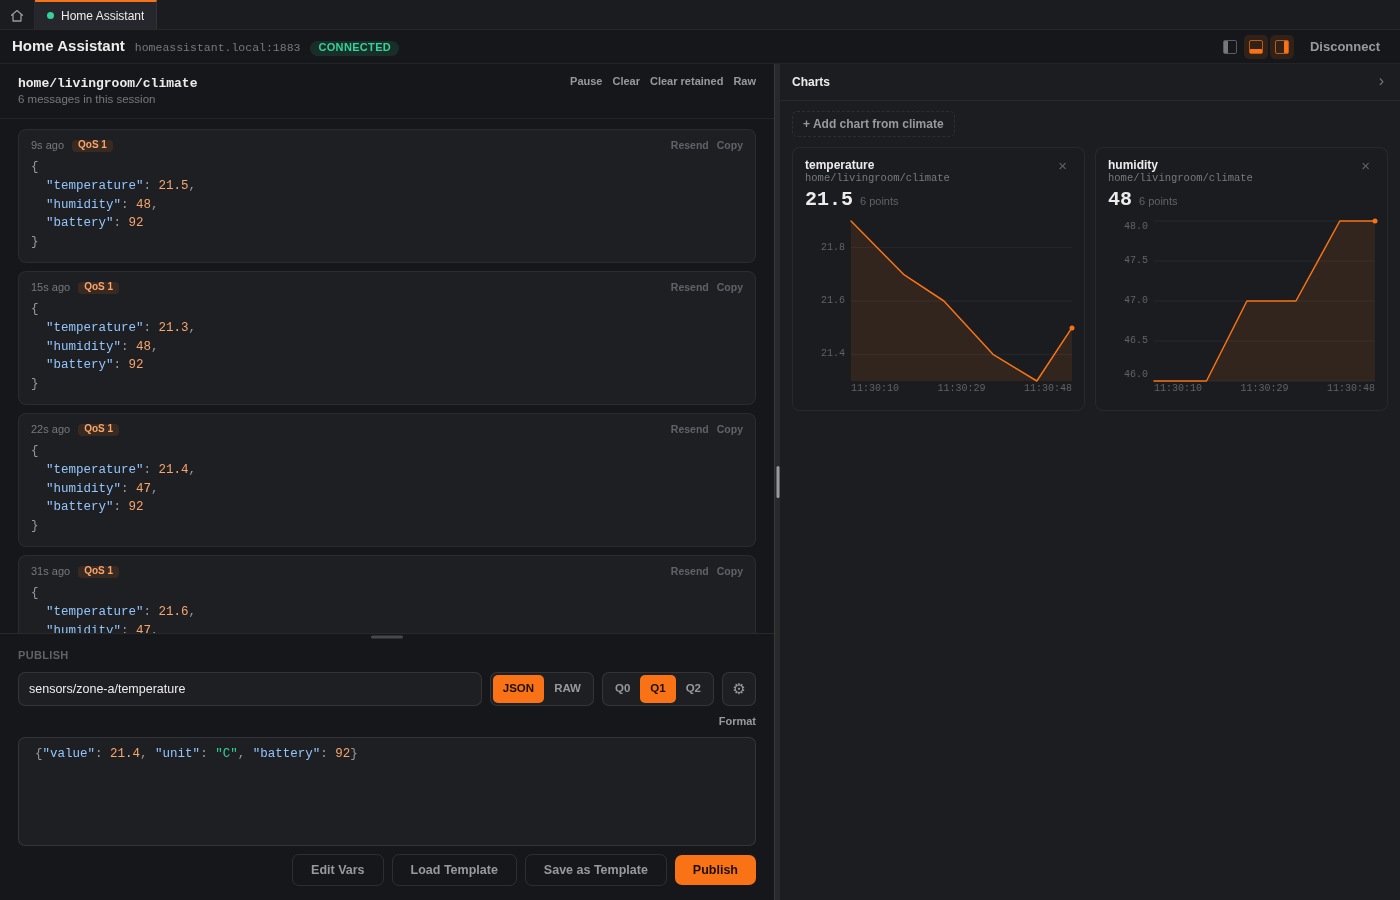
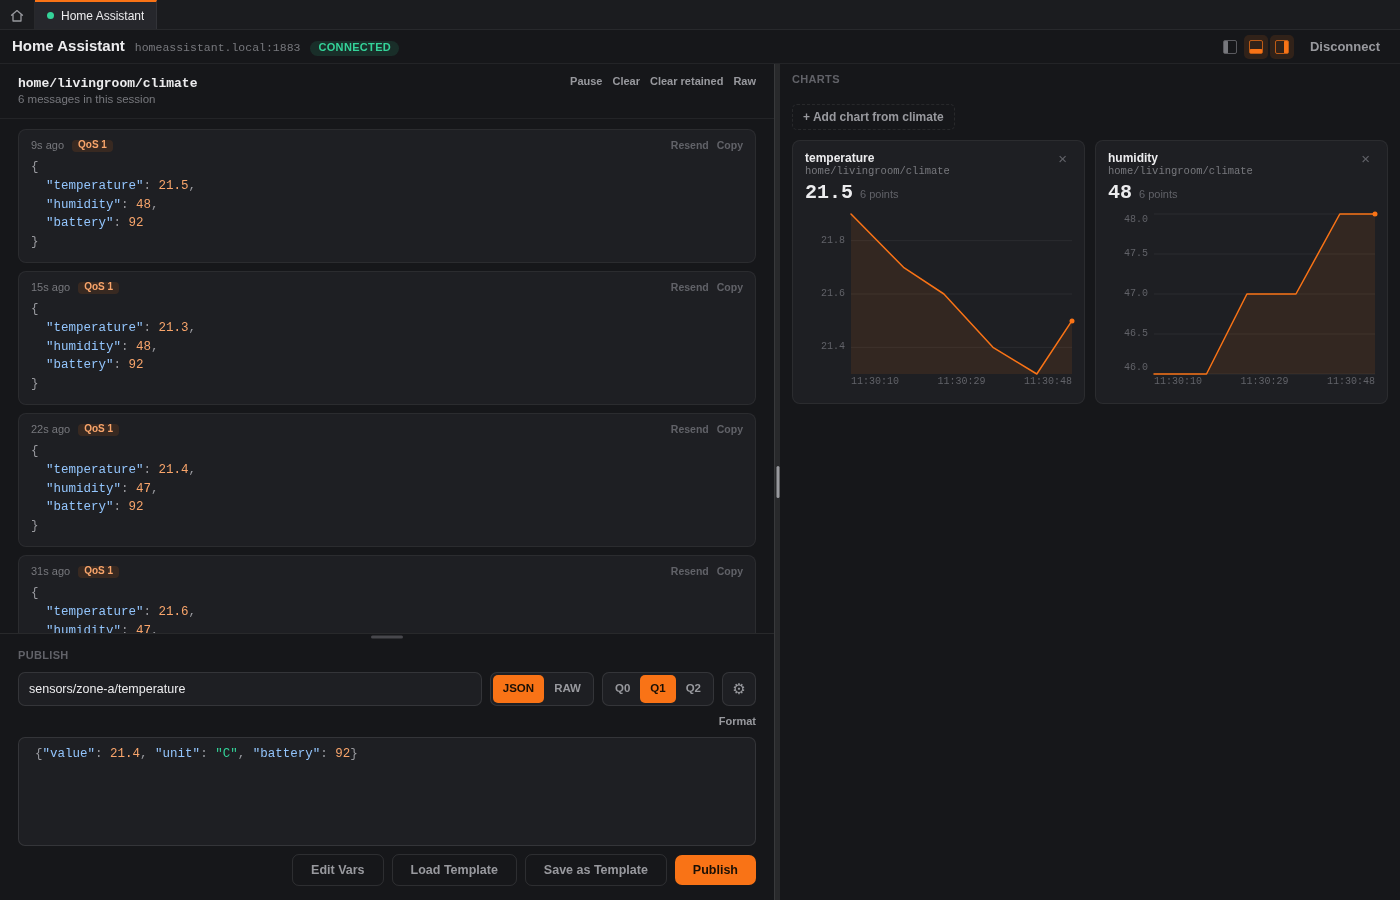
cleanup

diff --git a/src/app/pages/broker-workspace/tool-panel/tool-panel.css b/src/app/pages/broker-workspace/tool-panel/tool-panel.css
@@ -1,9 +1,13 @@
+/* The same background as the sidebar, the message stream and the publish
+   panel. This dock used to be the one raised surface in the workspace, which
+   left the chart cards sitting on a background a single RGB step away from
+   their own - so they read as a flat wall rather than as cards. */
 :host {
   display: flex;
   flex-direction: column;
   min-height: 0;
   height: 100%;
-  background: var(--color-surface-elevated);
+  background: var(--color-bg);
 }
 
 .panel-header {
@@ -11,15 +15,17 @@
   align-items: center;
   justify-content: space-between;
   gap: 8px;
-  padding: 8px 10px 8px 12px;
-  border-bottom: 1px solid var(--color-border-faint);
+  padding: 10px 12px 8px;
   flex-shrink: 0;
 }
 
+/* The app's section label, as used by SUBSCRIPTIONS, TOPICS and PUBLISH. */
 .panel-title {
-  font-size: 12px;
-  font-weight: 600;
-  color: var(--color-text);
+  font-size: 11px;
+  font-weight: 700;
+  color: var(--color-text-quaternary);
+  letter-spacing: 0.03em;
+  text-transform: uppercase;
 }
 
 /* Matches the publish panel's format switcher - this is the app's tab strip,
@@ -54,39 +60,6 @@
 
 .segment:not(.selected):hover {
   background: var(--color-surface-hover);
-}
-
-.panel-actions {
-  display: flex;
-  align-items: center;
-  gap: 2px;
-  flex-shrink: 0;
-}
-
-.panel-button {
-  background: none;
-  border: none;
-  color: var(--color-text-tertiary);
-  font-size: 13px;
-  line-height: 1;
-  cursor: pointer;
-  padding: 4px 6px;
-  border-radius: var(--radius-sm);
-  flex-shrink: 0;
-}
-
-.panel-button:hover {
-  color: var(--color-text);
-  background: var(--color-surface-hover);
-}
-
-.panel-button.active {
-  color: var(--color-accent);
-}
-
-.panel-close {
-  font-size: 16px;
-  padding: 2px 6px;
 }
 
 .panel-body {

diff --git a/src/app/pages/broker-workspace/subscriptions-panel/subscriptions-panel.ts b/src/app/pages/broker-workspace/subscriptions-panel/subscriptions-panel.ts
@@ -1,4 +1,13 @@
-import { Component, OnInit, inject, input, signal } from "@angular/core";
+import {
+  Component,
+  ElementRef,
+  OnInit,
+  effect,
+  inject,
+  input,
+  signal,
+  viewChild,
+} from "@angular/core";
 import { FormBuilder, ReactiveFormsModule, Validators } from "@angular/forms";
 
 import { Subscription } from "../../../core/models/broker-connection.model";
@@ -31,6 +40,16 @@ export class SubscriptionsPanel implements OnInit {
   readonly form = this.formBuilder.nonNullable.group({
     topic: ["", Validators.required],
   });
+
+  private readonly topicInput =
+    viewChild<ElementRef<HTMLInputElement>>("topicInput");
+
+  constructor() {
+    // Keyed on the input appearing rather than on the click that asked for it:
+    // the field is inside an `@if`, so it does not exist yet at the moment
+    // `adding` flips.
+    effect(() => this.topicInput()?.nativeElement.focus());
+  }
 
   ngOnInit(): void {
     void this.refresh();

diff --git a/src/app/pages/broker-workspace/broker-workspace.spec.ts b/src/app/pages/broker-workspace/broker-workspace.spec.ts
@@ -492,21 +492,6 @@ describe("BrokerWorkspace", () => {
       ).not.toBeNull();
     });
 
-    it("closes its dock from its own close button", async () => {
-      const { fixture } = await setup();
-      await fixture.whenStable();
-      const component = fixture.componentInstance;
-      component.toggleDock("tools");
-      fixture.detectChanges();
-
-      const panel = fixture.debugElement.query(By.directive(ToolPanel))
-        .componentInstance as ToolPanel;
-      panel.closeRequested.emit();
-      fixture.detectChanges();
-
-      expect(component.docksOpen().tools).toBe(false);
-    });
-
     it("freezes the charts with the message stream's pause", async () => {
       const { fixture } = await setup();
       await fixture.whenStable();

diff --git a/src/app/pages/broker-workspace/tool-panel/tool-panel.spec.ts b/src/app/pages/broker-workspace/tool-panel/tool-panel.spec.ts
@@ -46,14 +46,12 @@ describe("ToolPanel", () => {
     );
   });
 
-  it("asks to be closed", async () => {
+  /** Hiding the dock is the header's job, and having two controls for it
+   * meant one of them was always the wrong one to reach for. */
+  it("leaves showing and hiding to the header's dock toggle", async () => {
     const { fixture } = await setup();
-    const closed = vi.fn();
-    fixture.componentInstance.closeRequested.subscribe(closed);
 
-    fixture.nativeElement.querySelector(".panel-close").click();
-
-    expect(closed).toHaveBeenCalledTimes(1);
+    expect(fixture.nativeElement.querySelector(".panel-actions")).toBeNull();
   });
 
   it("hands the workspace's width verdict down so the cards can go two-up", async () => {

diff --git a/src/app/pages/broker-workspace/subscriptions-panel/subscriptions-panel.spec.ts b/src/app/pages/broker-workspace/subscriptions-panel/subscriptions-panel.spec.ts
@@ -77,6 +77,17 @@ describe("SubscriptionsPanel", () => {
     expect(text).toContain("Q1");
   });
 
+  /** Opening the form is always a prelude to typing a topic into it. */
+  it("puts the cursor in the topic field as soon as the form opens", async () => {
+    const { fixture } = await setup(sampleConnection());
+    const element = fixture.nativeElement as HTMLElement;
+
+    element.querySelector<HTMLElement>(".add-link")?.click();
+    fixture.detectChanges();
+
+    expect(document.activeElement).toBe(element.querySelector("input.mono"));
+  });
+
   it("subscribes to a new topic and adds it to the list", async () => {
     const { fixture, mqttService } = await setup(sampleConnection());
     const created = {

diff --git a/src/app/pages/broker-workspace/tool-panel/tool-panel.ts b/src/app/pages/broker-workspace/tool-panel/tool-panel.ts
@@ -2,7 +2,6 @@ import {
   ChangeDetectionStrategy,
   Component,
   input,
-  output,
   signal,
 } from "@angular/core";
 
@@ -41,7 +40,6 @@ export class ToolPanel {
   readonly wide = input(false);
   /** The message stream's Pause, forwarded so the charts freeze with it. */
   readonly paused = input(false);
-  readonly closeRequested = output<void>();
 
   readonly tools: readonly ToolTab[] = [{ id: "charts", label: "Charts" }];
   readonly activeTool = signal<WorkspaceTool>("charts");

diff --git a/src/app/pages/broker-workspace/tool-panel/value-charts/value-chart-card.css b/src/app/pages/broker-workspace/tool-panel/value-charts/value-chart-card.css
@@ -1,9 +1,11 @@
+/* The workspace's card surface, shared with the message cards and the
+   subscription chips - a chart is one more card on the same background. */
 :host {
   display: block;
   padding: 10px 12px 12px;
   border: 1px solid var(--color-border-faint);
   border-radius: var(--radius-md);
-  background: var(--color-surface);
+  background: var(--color-input-bg);
 }
 
 .card-header {

diff --git a/src/app/pages/broker-workspace/tool-panel/tool-panel.html b/src/app/pages/broker-workspace/tool-panel/tool-panel.html
@@ -17,16 +17,6 @@
   } @else {
     <span class="panel-title">{{ tools[0].label }}</span>
   }
-  <div class="panel-actions">
-    <button
-      type="button"
-      class="panel-button panel-close"
-      aria-label="Close tool panel"
-      (click)="closeRequested.emit()"
-    >
-      ›
-    </button>
-  </div>
 </header>
 
 <div class="panel-body">

diff --git a/src/app/pages/broker-workspace/tool-panel/value-charts/value-charts.css b/src/app/pages/broker-workspace/tool-panel/value-charts/value-charts.css
@@ -56,7 +56,9 @@
   padding: 8px 10px 10px;
   border: 1px solid var(--color-border);
   border-radius: var(--radius-md);
-  background: var(--color-surface-elevated);
+  /* The same raised surface as the chart cards - two raised things in one
+     panel should not be two different shades. */
+  background: var(--color-input-bg);
 }
 
 .picker-header {

diff --git a/src/app/pages/broker-workspace/subscriptions-panel/subscriptions-panel.html b/src/app/pages/broker-workspace/subscriptions-panel/subscriptions-panel.html
@@ -6,6 +6,7 @@
 @if (adding()) {
   <form class="add-form" [formGroup]="form" (ngSubmit)="subscribe()">
     <input
+      #topicInput
       class="mono"
       formControlName="topic"
       placeholder="e.g. sensors/#"

diff --git a/src/app/pages/broker-workspace/broker-workspace.html b/src/app/pages/broker-workspace/broker-workspace.html
@@ -128,7 +128,6 @@
       [selectedTopic]="selectedTopic()"
       [wide]="toolsWide()"
       [paused]="paused()"
-      (closeRequested)="toggleDock('tools')"
     />
   </aside>
 </div>

diff --git a/src/app/pages/broker-workspace/broker-workspace.css b/src/app/pages/broker-workspace/broker-workspace.css
@@ -251,7 +251,6 @@ h1 {
   grid-row: 3;
   min-height: 0;
   overflow: hidden;
-  background: var(--color-surface-elevated);
 }
 
 .resizer-col {
